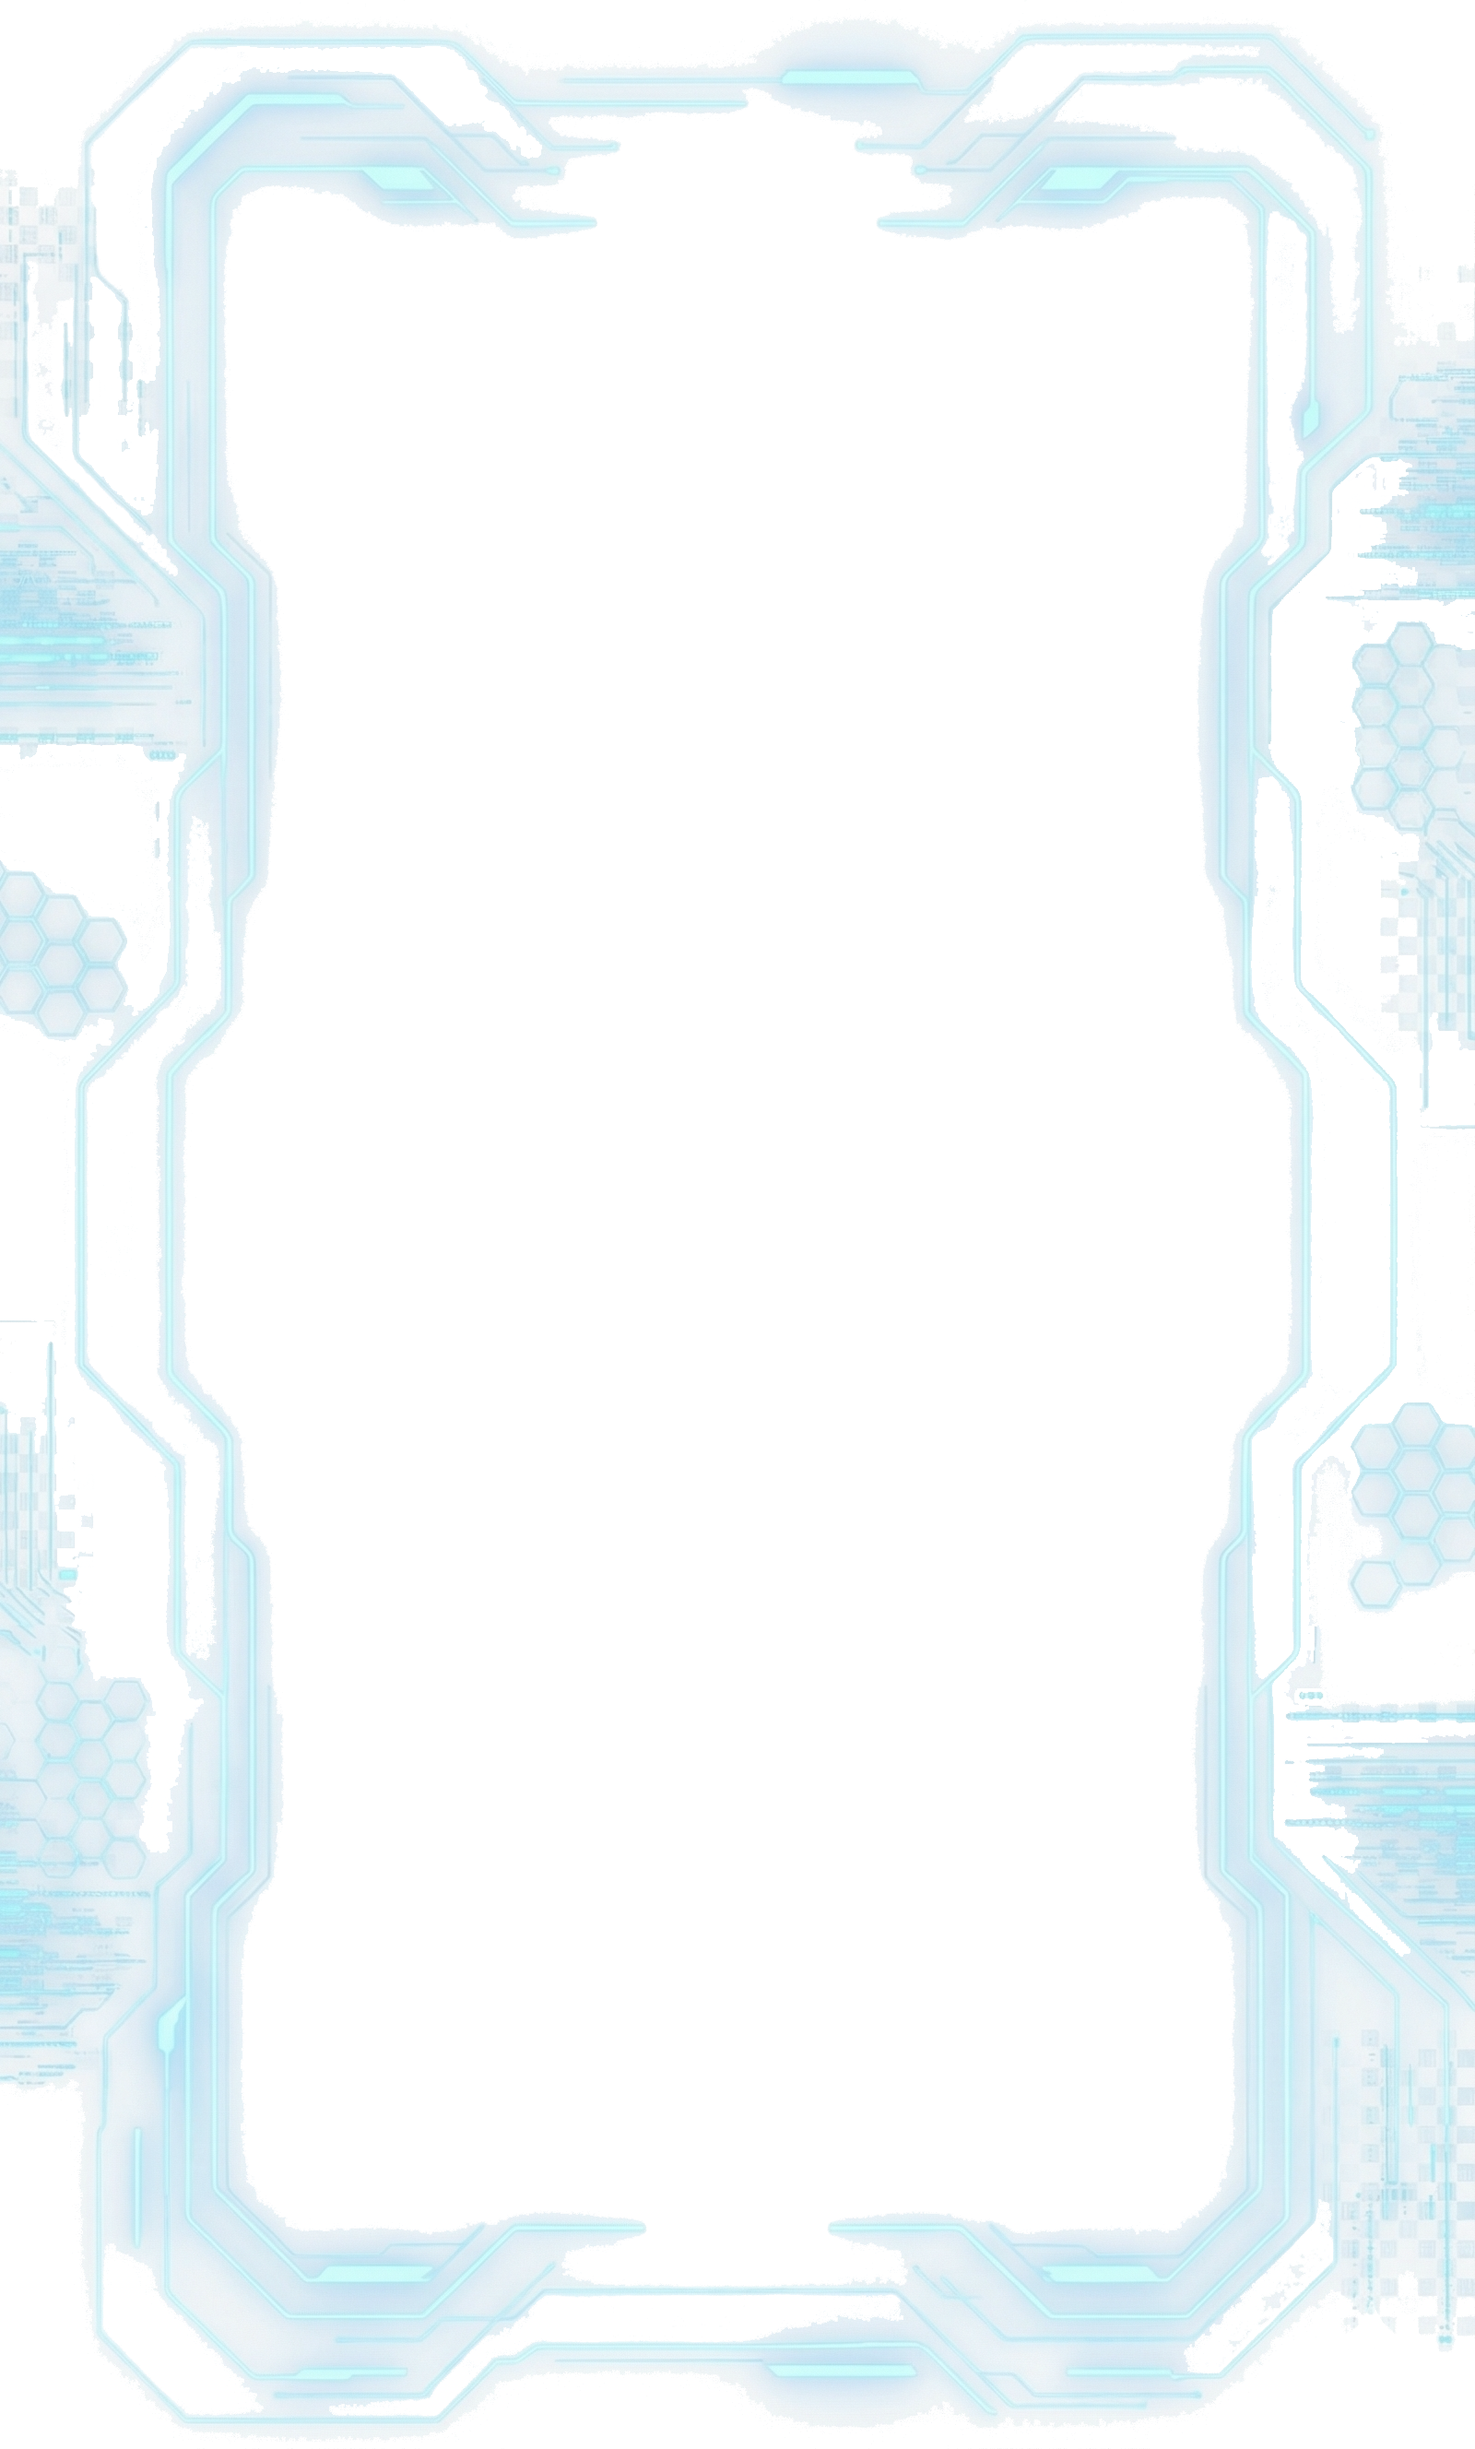
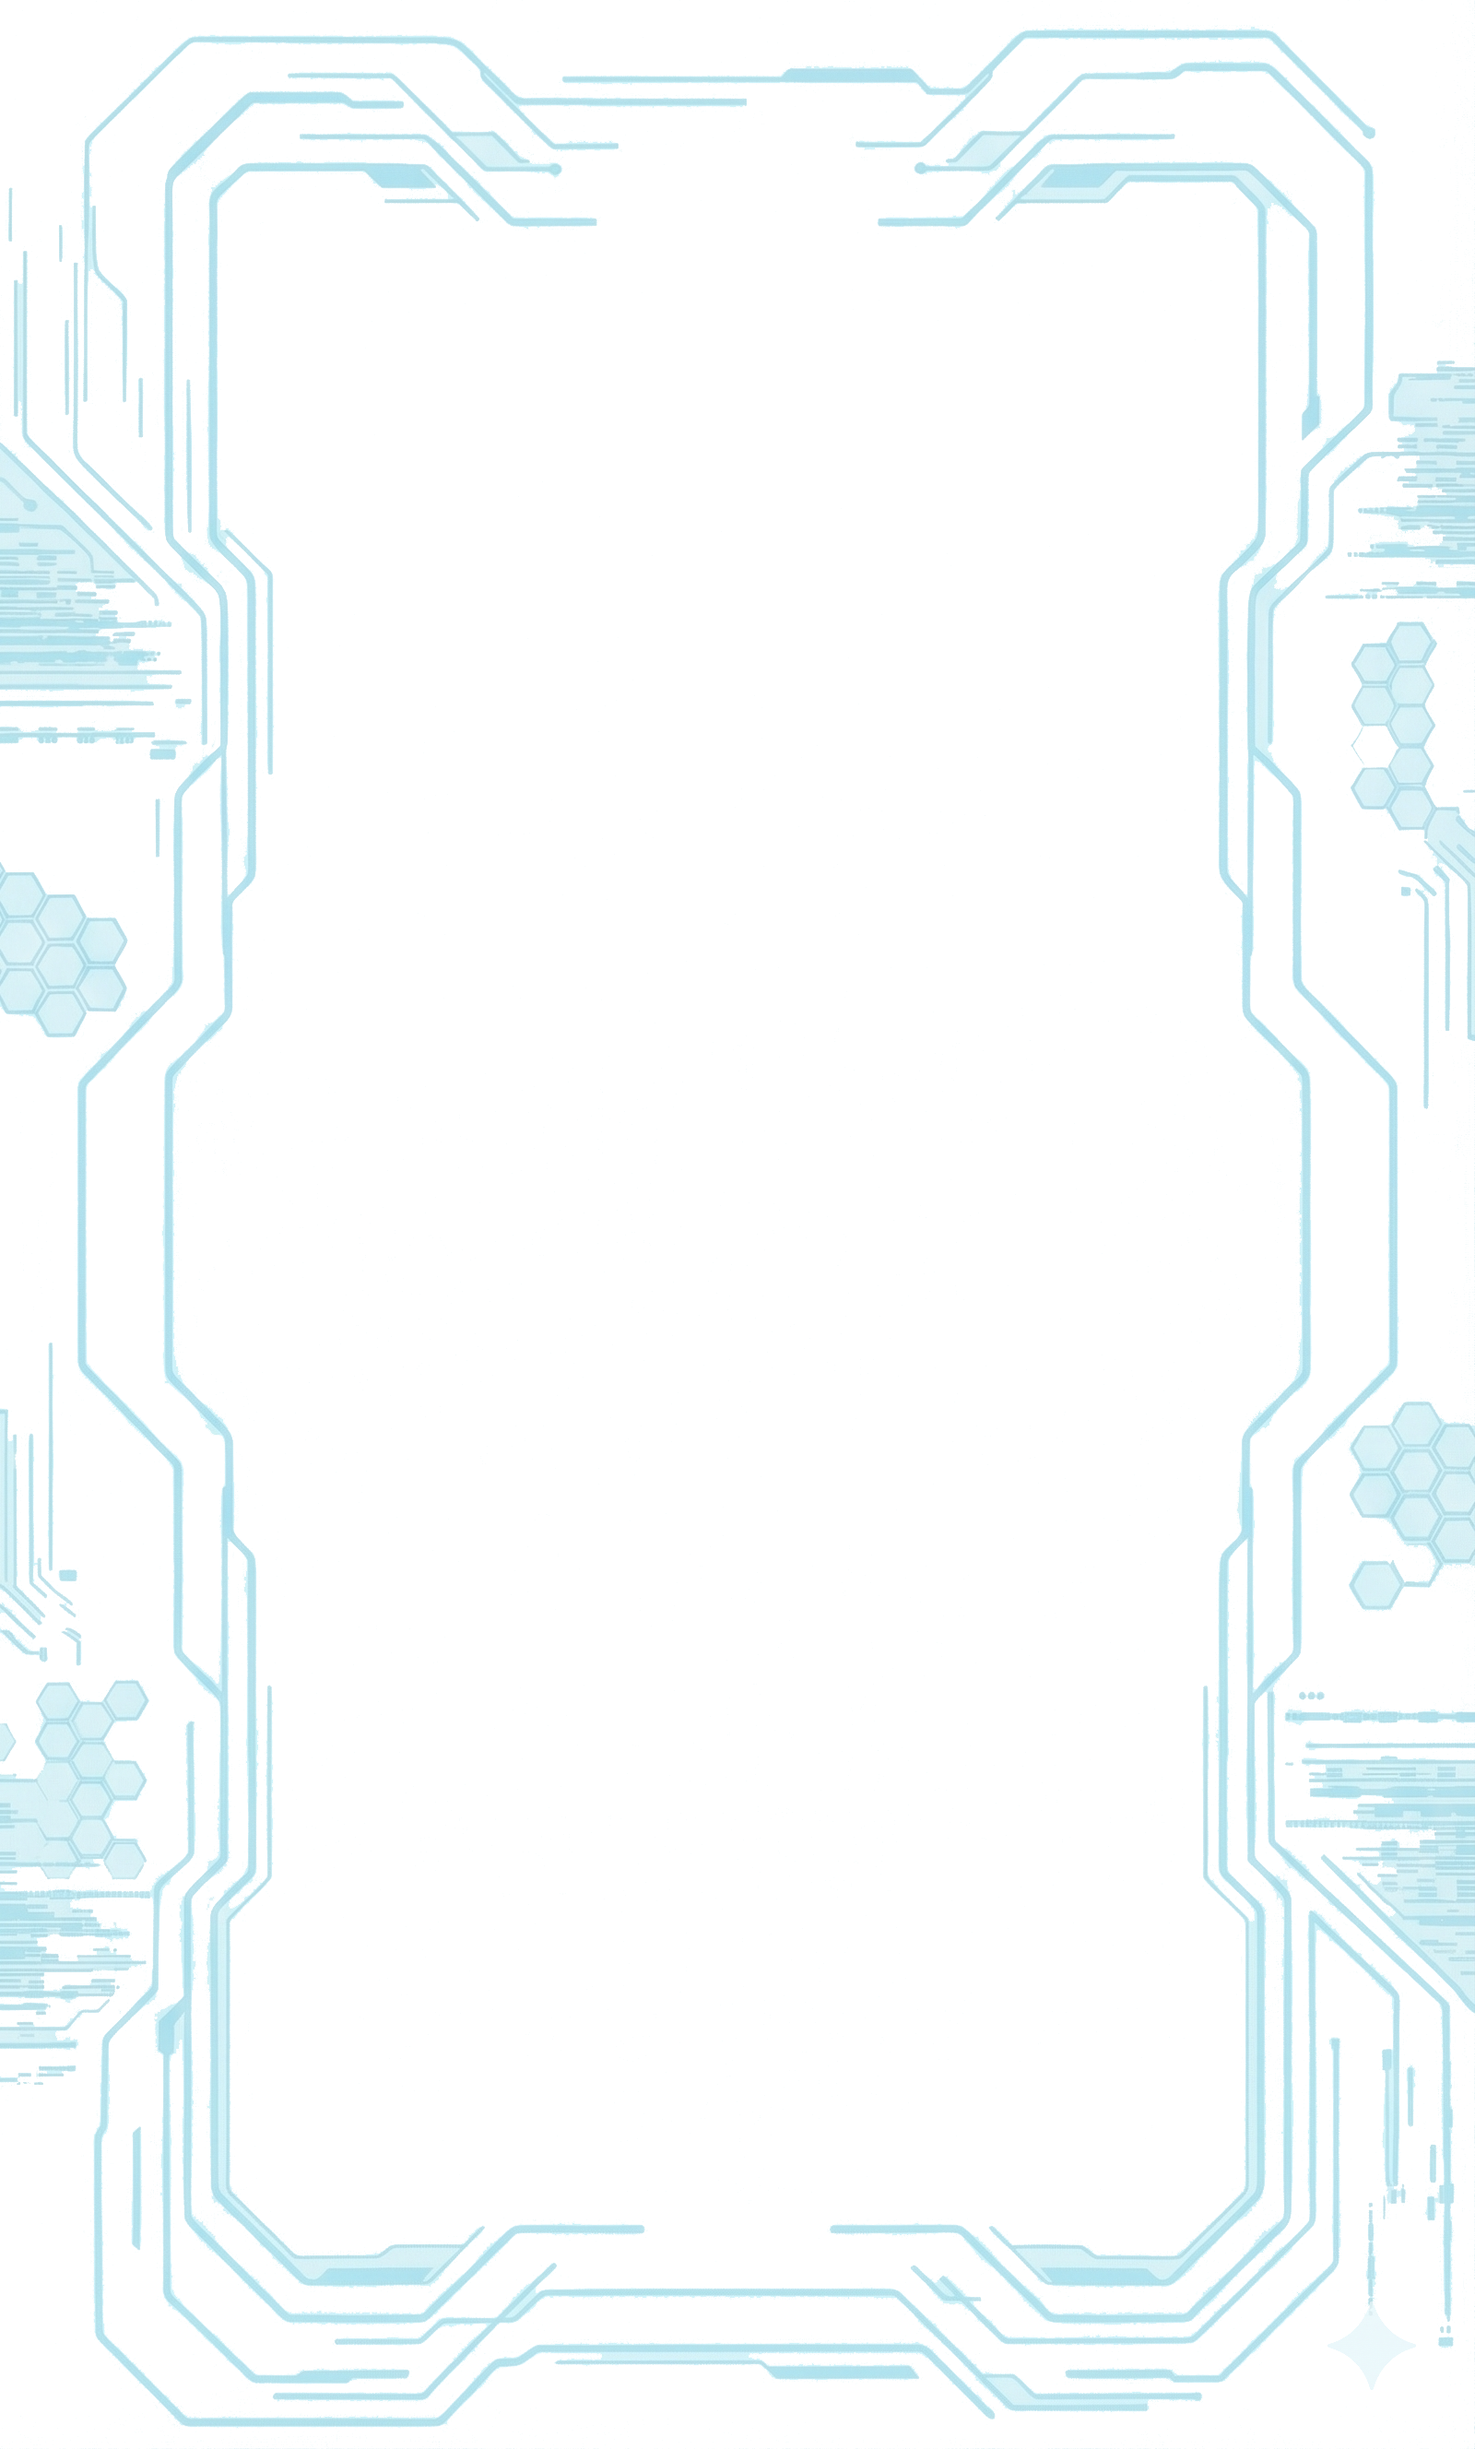
Add files via upload

diff --git a/index.html b/index.html
@@ -222,7 +222,7 @@
       left: 0;
       width: 100%;
       height: 100%;
-      background: linear-gradient(135deg, #0a1520 0%, #1a2a3a 100%);
+      background: #7cd4eb;
       display: flex;
       flex-direction: column;
       align-items: center;
@@ -244,8 +244,8 @@
     }
 
     .progress span {
-      background: #00c8ff;
-      box-shadow: 0 2px 8px rgba(0, 200, 255, 0.5);
+      background: #0090c0;
+      box-shadow: 0 2px 8px rgba(0, 100, 150, 0.5);
       height: 10px;
       width: 10px;
       display: inline-block;
@@ -265,25 +265,19 @@
     @keyframes wave {
       0%, 40%, 100% {
         transform: translate(0, 0);
-        background-color: #00c8ff;
+        background-color: #0090c0;
       }
       10% {
         transform: translate(0, -15px);
-        background-color: #00ffcc;
+        background-color: #005577;
       }
     }
 
-    .loading-text {
-      color: #fff;
-      font-size: 16px;
-      margin-top: 20px;
-    }
-
     .loading-percent {
-      color: #00c8ff;
+      color: #005577;
       font-size: 24px;
       font-weight: bold;
-      margin-top: 10px;
+      margin-top: 20px;
     }
   </style>
 </head>
@@ -301,7 +295,6 @@
       <span></span>
       <span></span>
     </div>
-    <div class="loading-text">あかねを呼び出し中...</div>
     <div class="loading-percent" id="loading-percent">0%</div>
   </div>
 
@@ -326,7 +319,7 @@
       <div id="chat-flap" onclick="toggleChatPanel()">
         <div id="flap-icon"></div>
       </div>
-      <div id="version-tag">Claude033</div>
+      <div id="version-tag">Claude034</div>
       <div id="chat-content">
         <div id="chat-text">
           みなさんこんにちは。わたしはAIコンシェルジュのあかねです。<br>
@@ -497,7 +490,7 @@
           },
           function(progress) {
             if (progress.total > 0) {
-              const pct = Math.round(progress.loaded / progress.total * 100);
+              const pct = Math.min(Math.round(progress.loaded / progress.total * 100), 100);
               document.getElementById('loading-percent').textContent = pct + '%';
             }
           },
